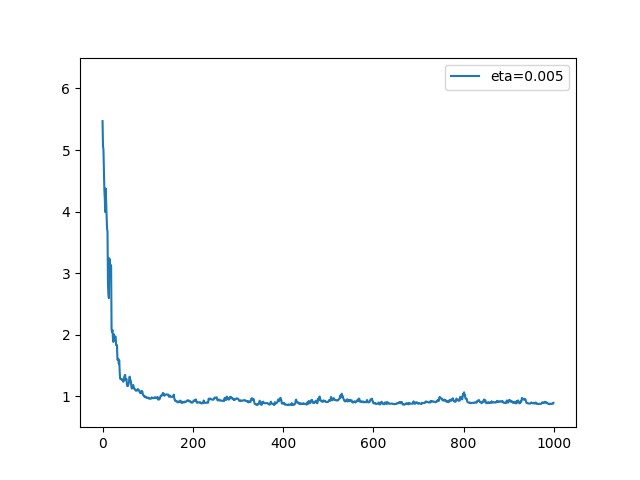
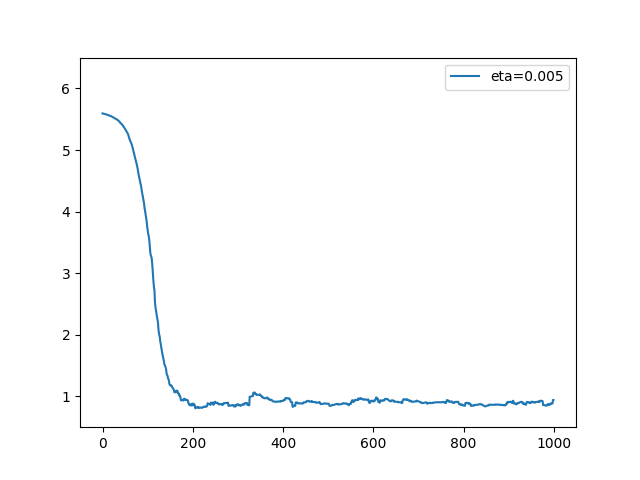
forgot to multiply by eta lol

diff --git a/hw2/neural_net.py b/hw2/neural_net.py
@@ -73,8 +73,8 @@ def backward(X, y, M, iters, eta):
 	(N, D) = X.shape
 
 	# Initialize weights to be random values
-	W1 = np.random.normal(0.0, 0.15, (M, D))
-	W2 = np.random.normal(0.0, 0.15, (1, M))
+	W1 = np.random.normal(0.0, 0.01, (M, D))
+	W2 = np.random.normal(0.0, 0.05, (1, M))
 
 	for i in range(iters):
 		n = np.random.randint(0, N)
@@ -115,7 +115,7 @@ def backward(X, y, M, iters, eta):
 		# We broadcast the matrices to make element-wise multiplication
 		# of X[n] and delta_j possible, and to have the deltas in the same
 		# shape as the weight matrix
-		W1_Delta = np.broadcast_to(X[n], (M, D)) * np.broadcast_to(delta_j.T, (M, D))
+		W1_Delta = np.broadcast_to(X[n], (M, D)) * np.broadcast_to(delta_j.T, (M, D)) * eta
 		W1 -= W1_Delta
 		W2 -= W2_Delta
 		# Uncomment below to show iteration as program is running
@@ -138,7 +138,7 @@ def load_and_normalize_data(filename):
 	# We standardize the data sets by using the training set mean and std
 	training_set = (raw_training_set - training_set_means)/(training_set_std)
 	validation_set = (raw_validation_set - training_set_means)/(training_set_std)
-	# Add 1 to the features to act as a bias, before the output column
+	# Add 1 to the features to act as a bias
 	training_set = np.insert(training_set, num_of_features, 1, axis=1)
 	validation_set = np.insert(validation_set, num_of_features, 1, axis=1)
 	return (training_set, training_ground_truth, validation_set, validation_ground_truth)
